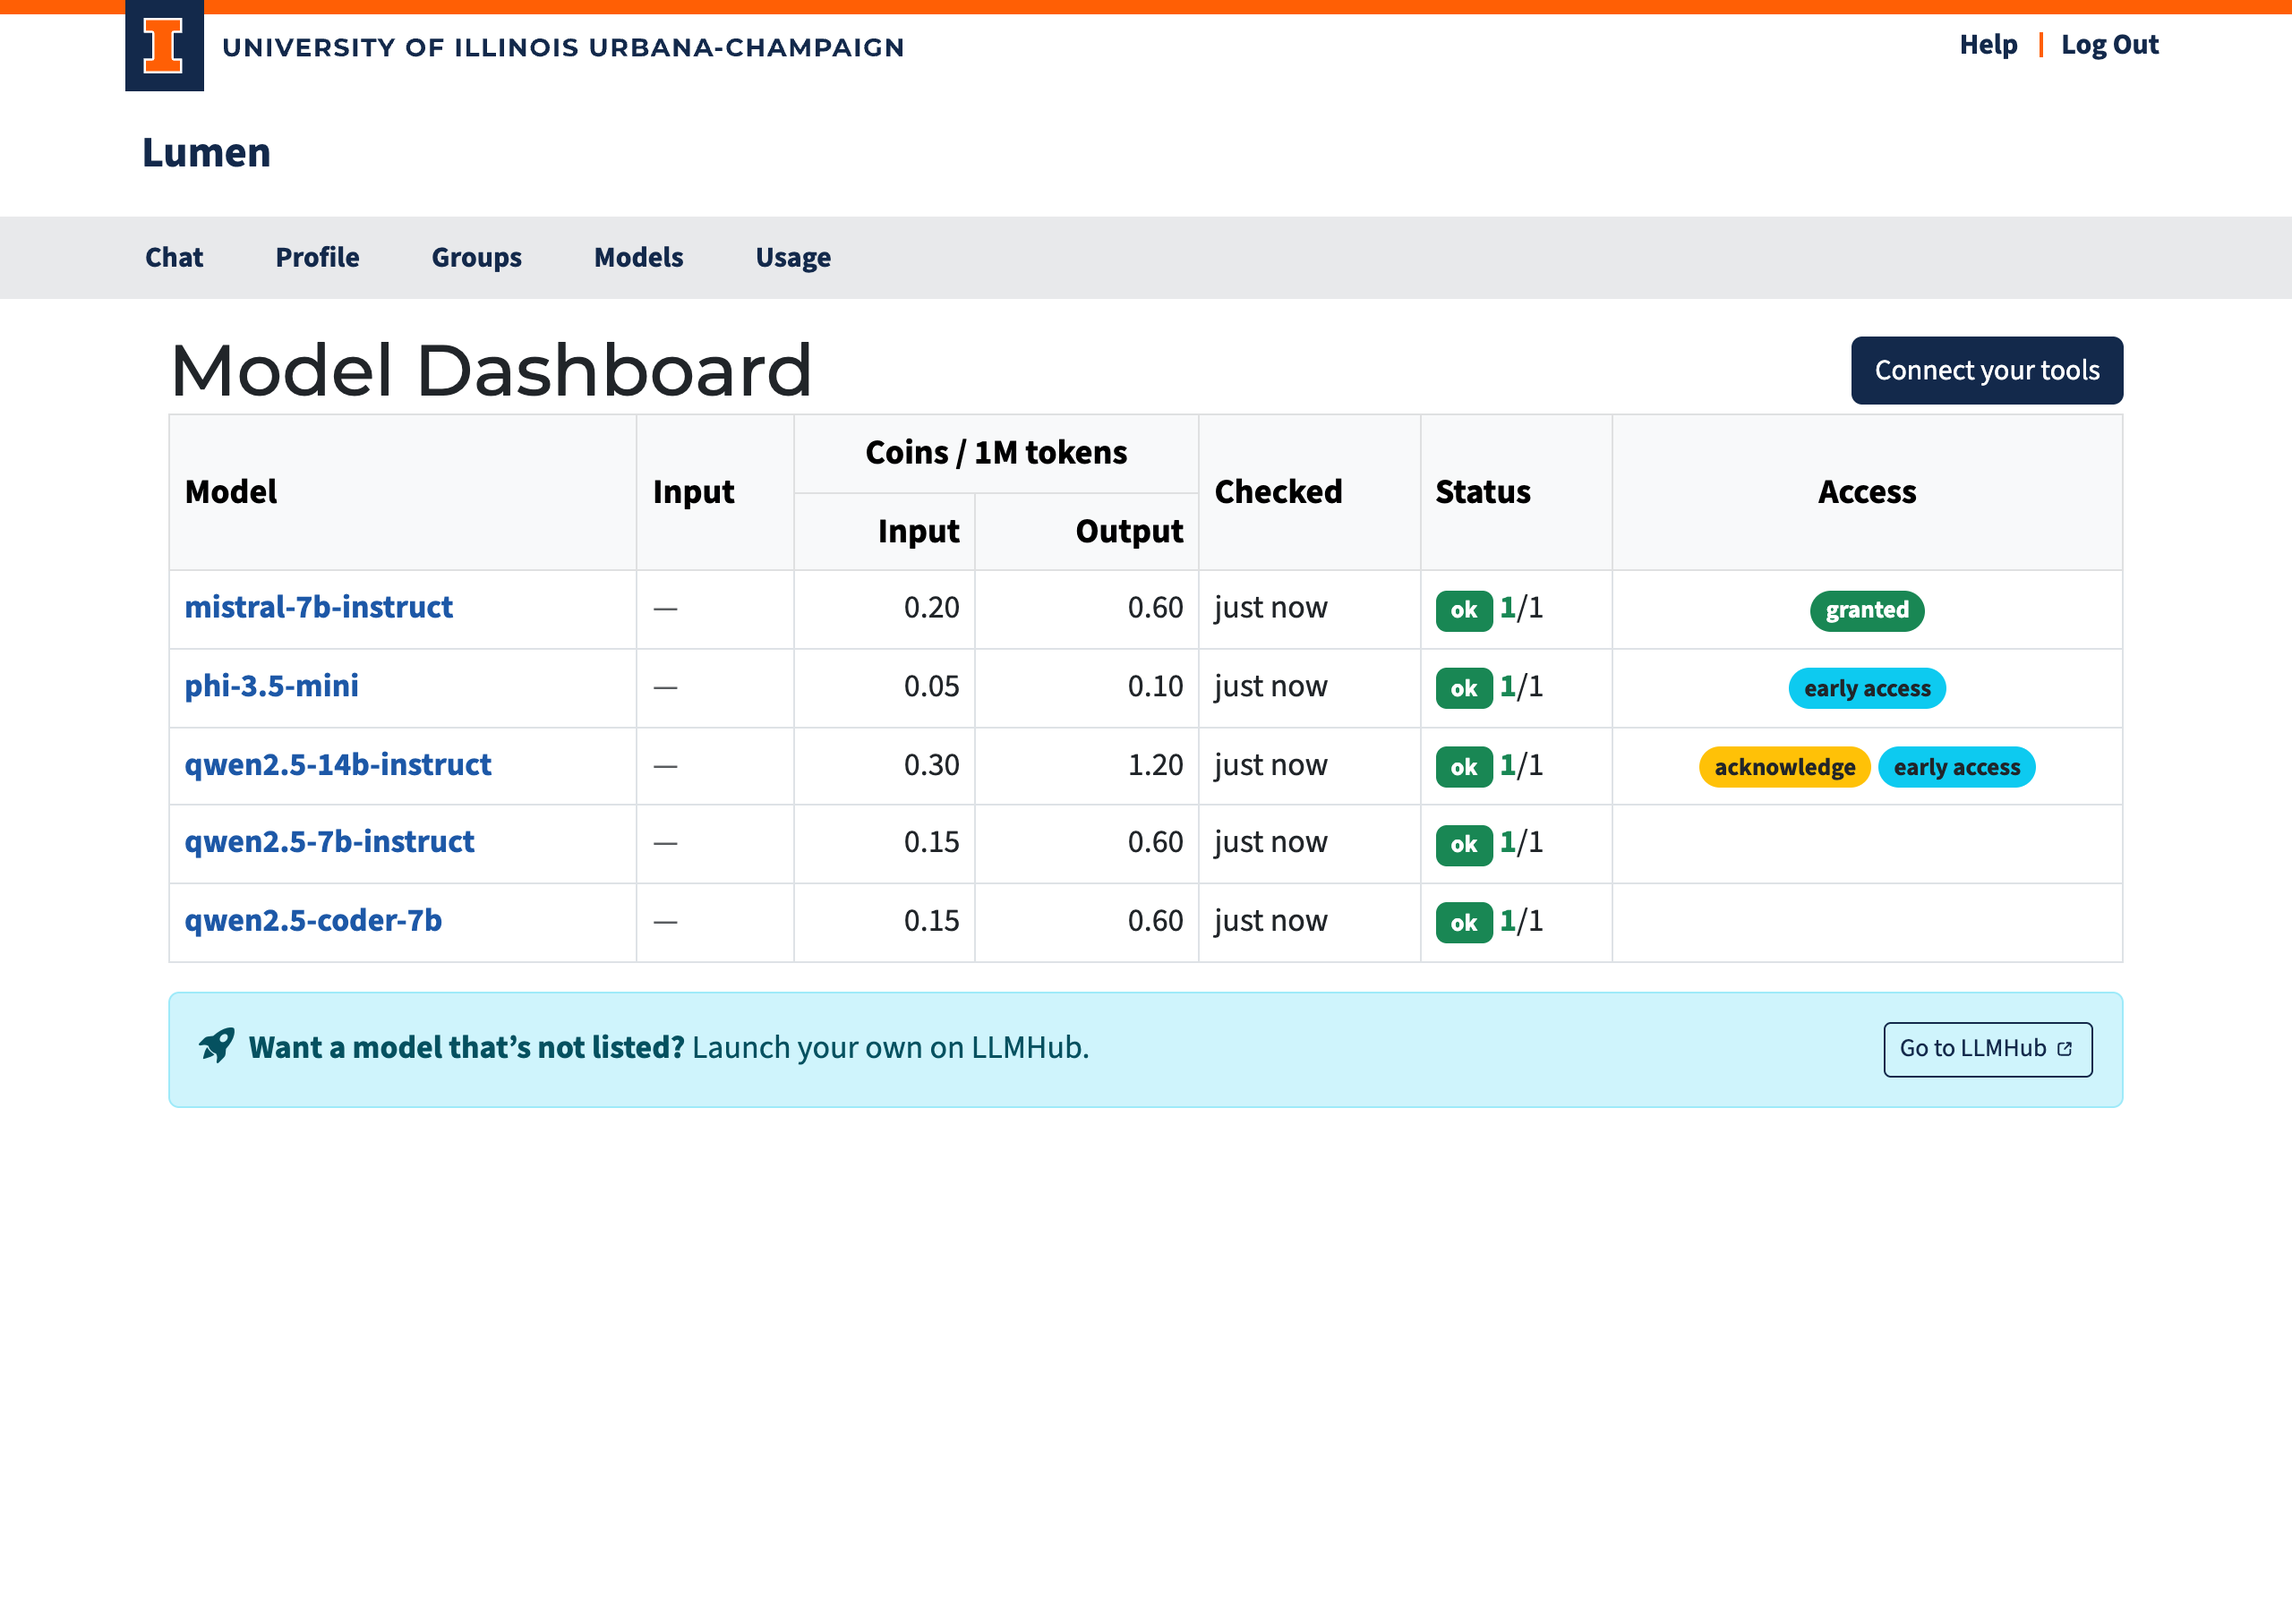
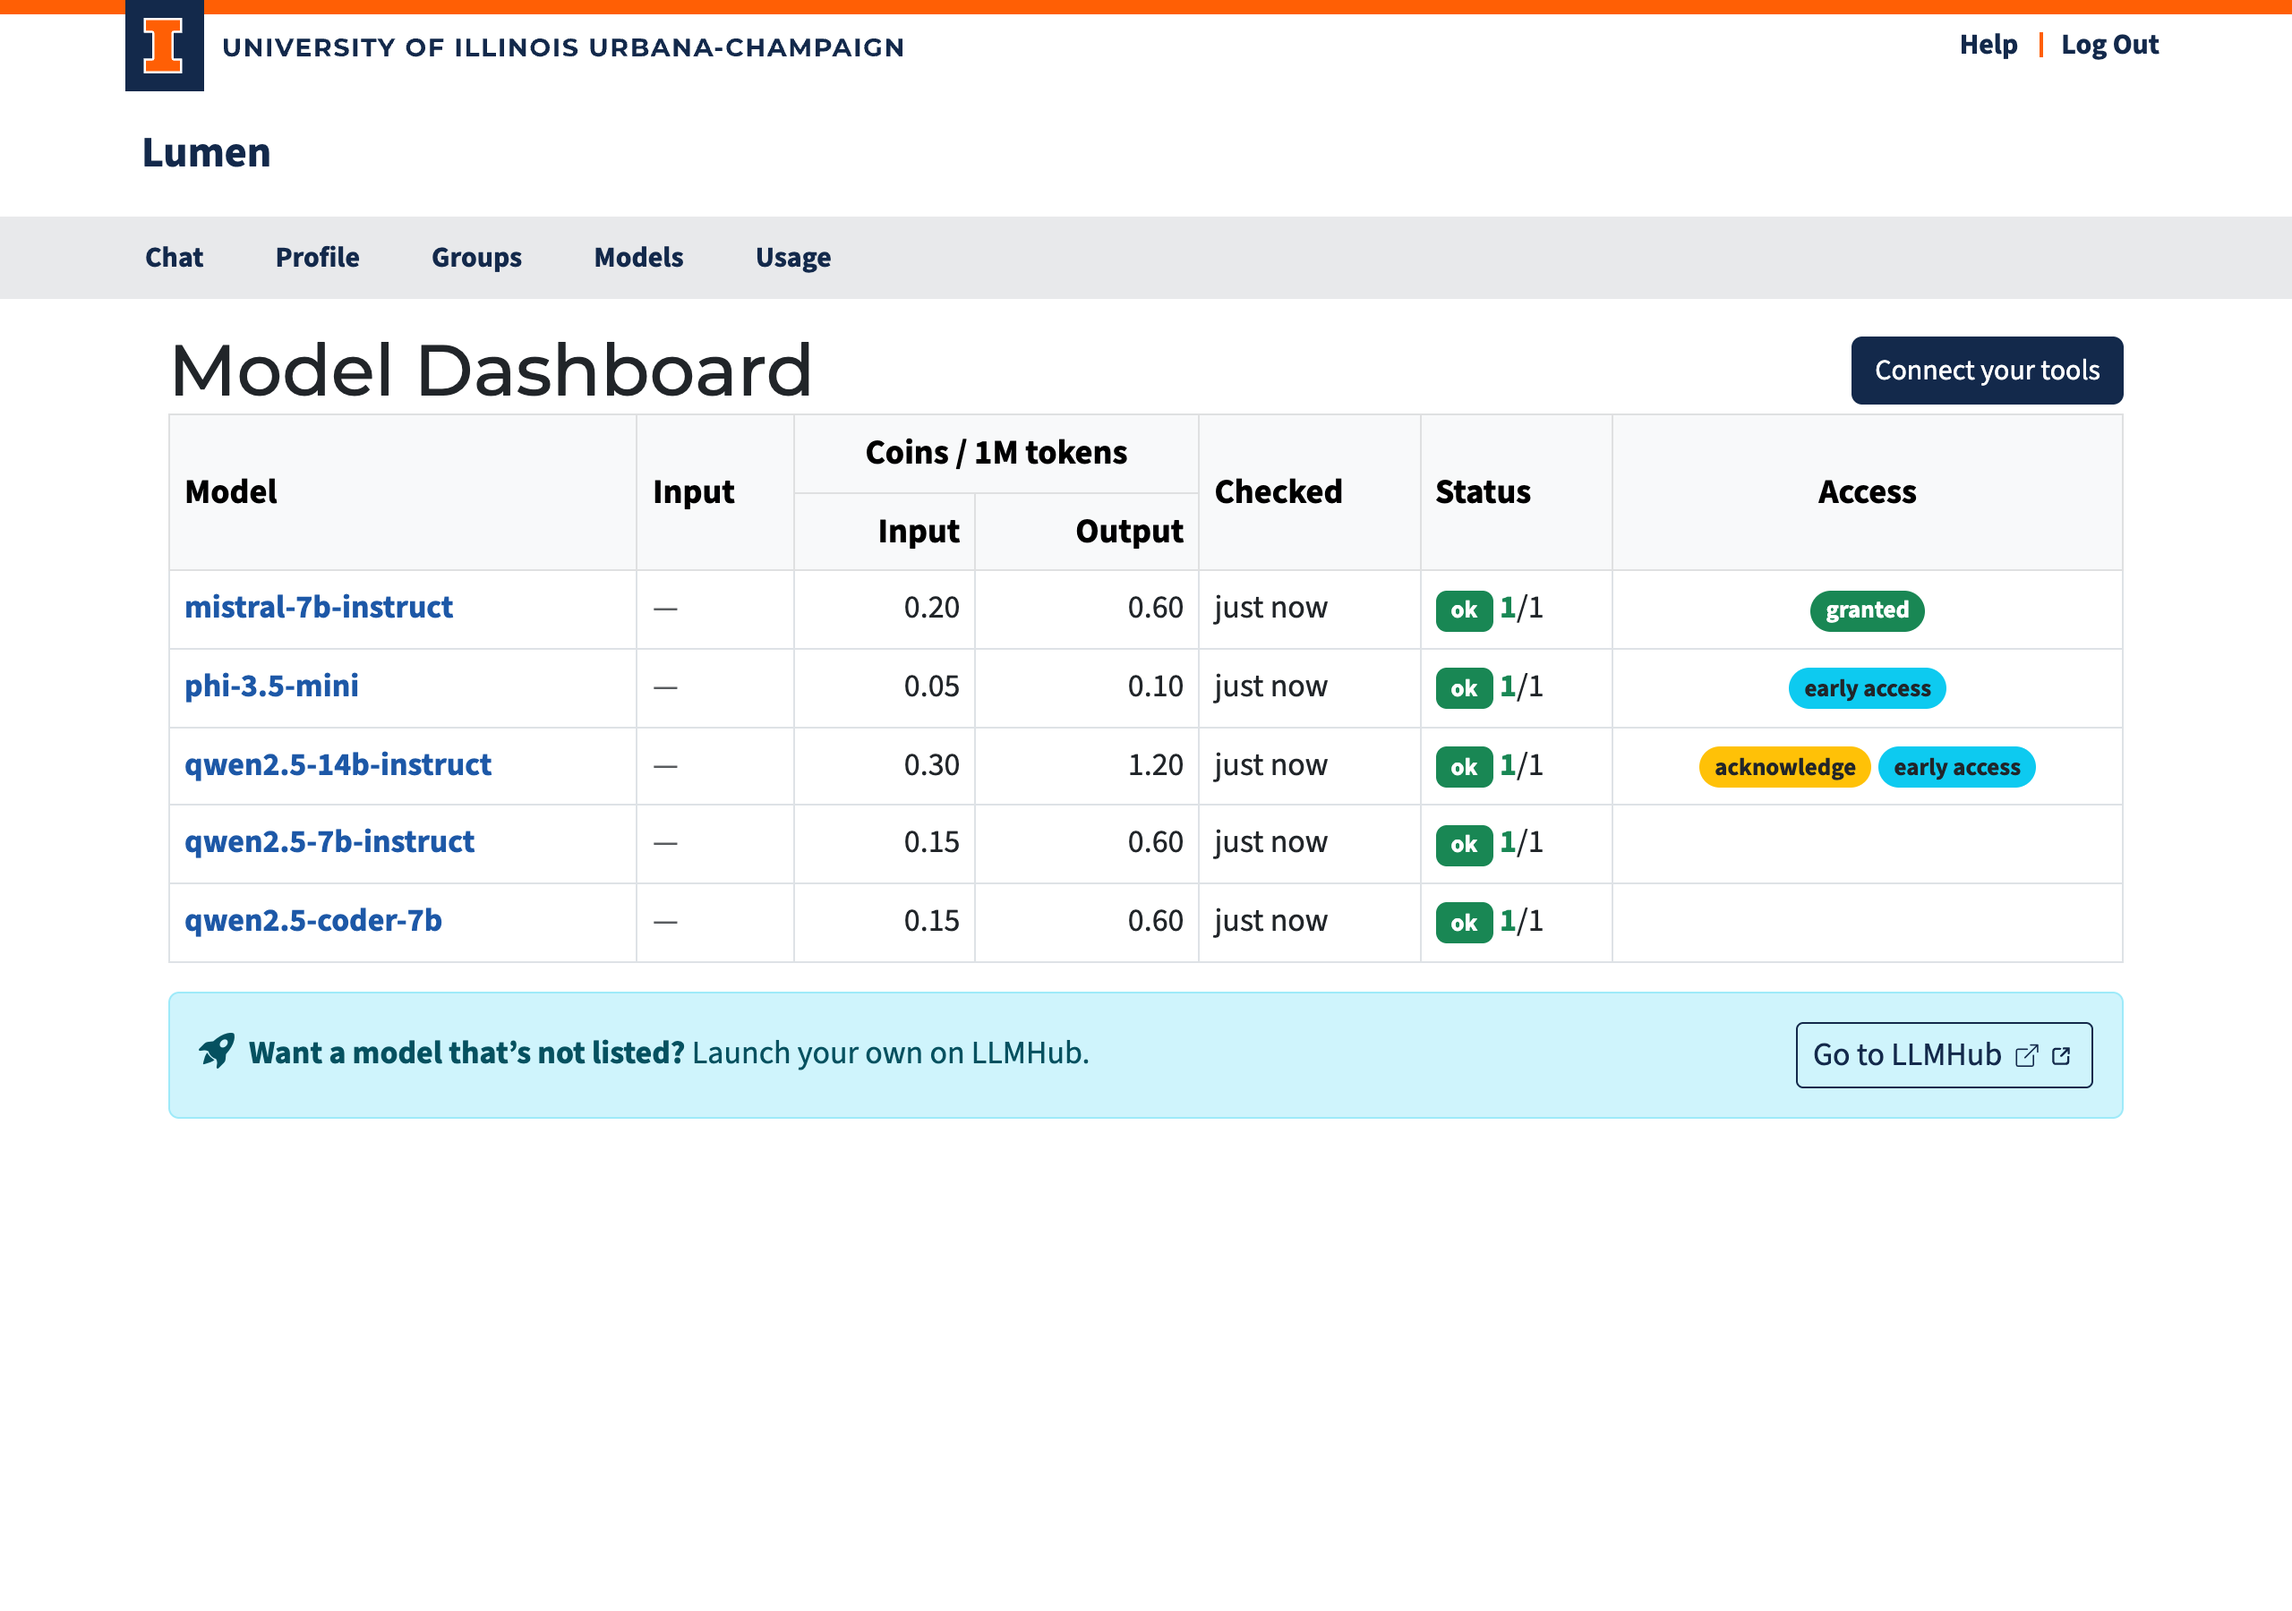
with newtab arrow

Changed region(s): [[0.0625, 0.6222, 0.9375, 0.7156], [0.375, 0.6222, 0.4062, 0.6533]]

diff --git a/lumen/templates/models.html b/lumen/templates/models.html
@@ -96,8 +96,8 @@
 <div class="alert alert-info d-flex flex-wrap align-items-center gap-2 mb-0" role="note">
   <i class="bi bi-rocket-takeoff-fill fs-5" aria-hidden="true"></i>
   <span class="me-auto"><strong>Want a model that’s not listed?</strong> Launch your own on LLMHub.</span>
-  <a class="btn btn-outline-primary btn-sm" href="{{ config.LLMHUB_URL }}" target="_blank" rel="noopener noreferrer">
-    Go to LLMHub<span class="visually-hidden"> (opens in a new tab)</span>
+  <a class="btn btn-outline-primary btn-sm" style="font-size: inherit;" href="{{ config.LLMHUB_URL }}" target="_blank" rel="noopener noreferrer">
+    Go to LLMHub <i class="bi bi-box-arrow-up-right ms-1" style="font-size: .7em;" aria-hidden="true"></i><span class="visually-hidden"> (opens in a new tab)</span>
   </a>
 </div>
 {% endif %}
